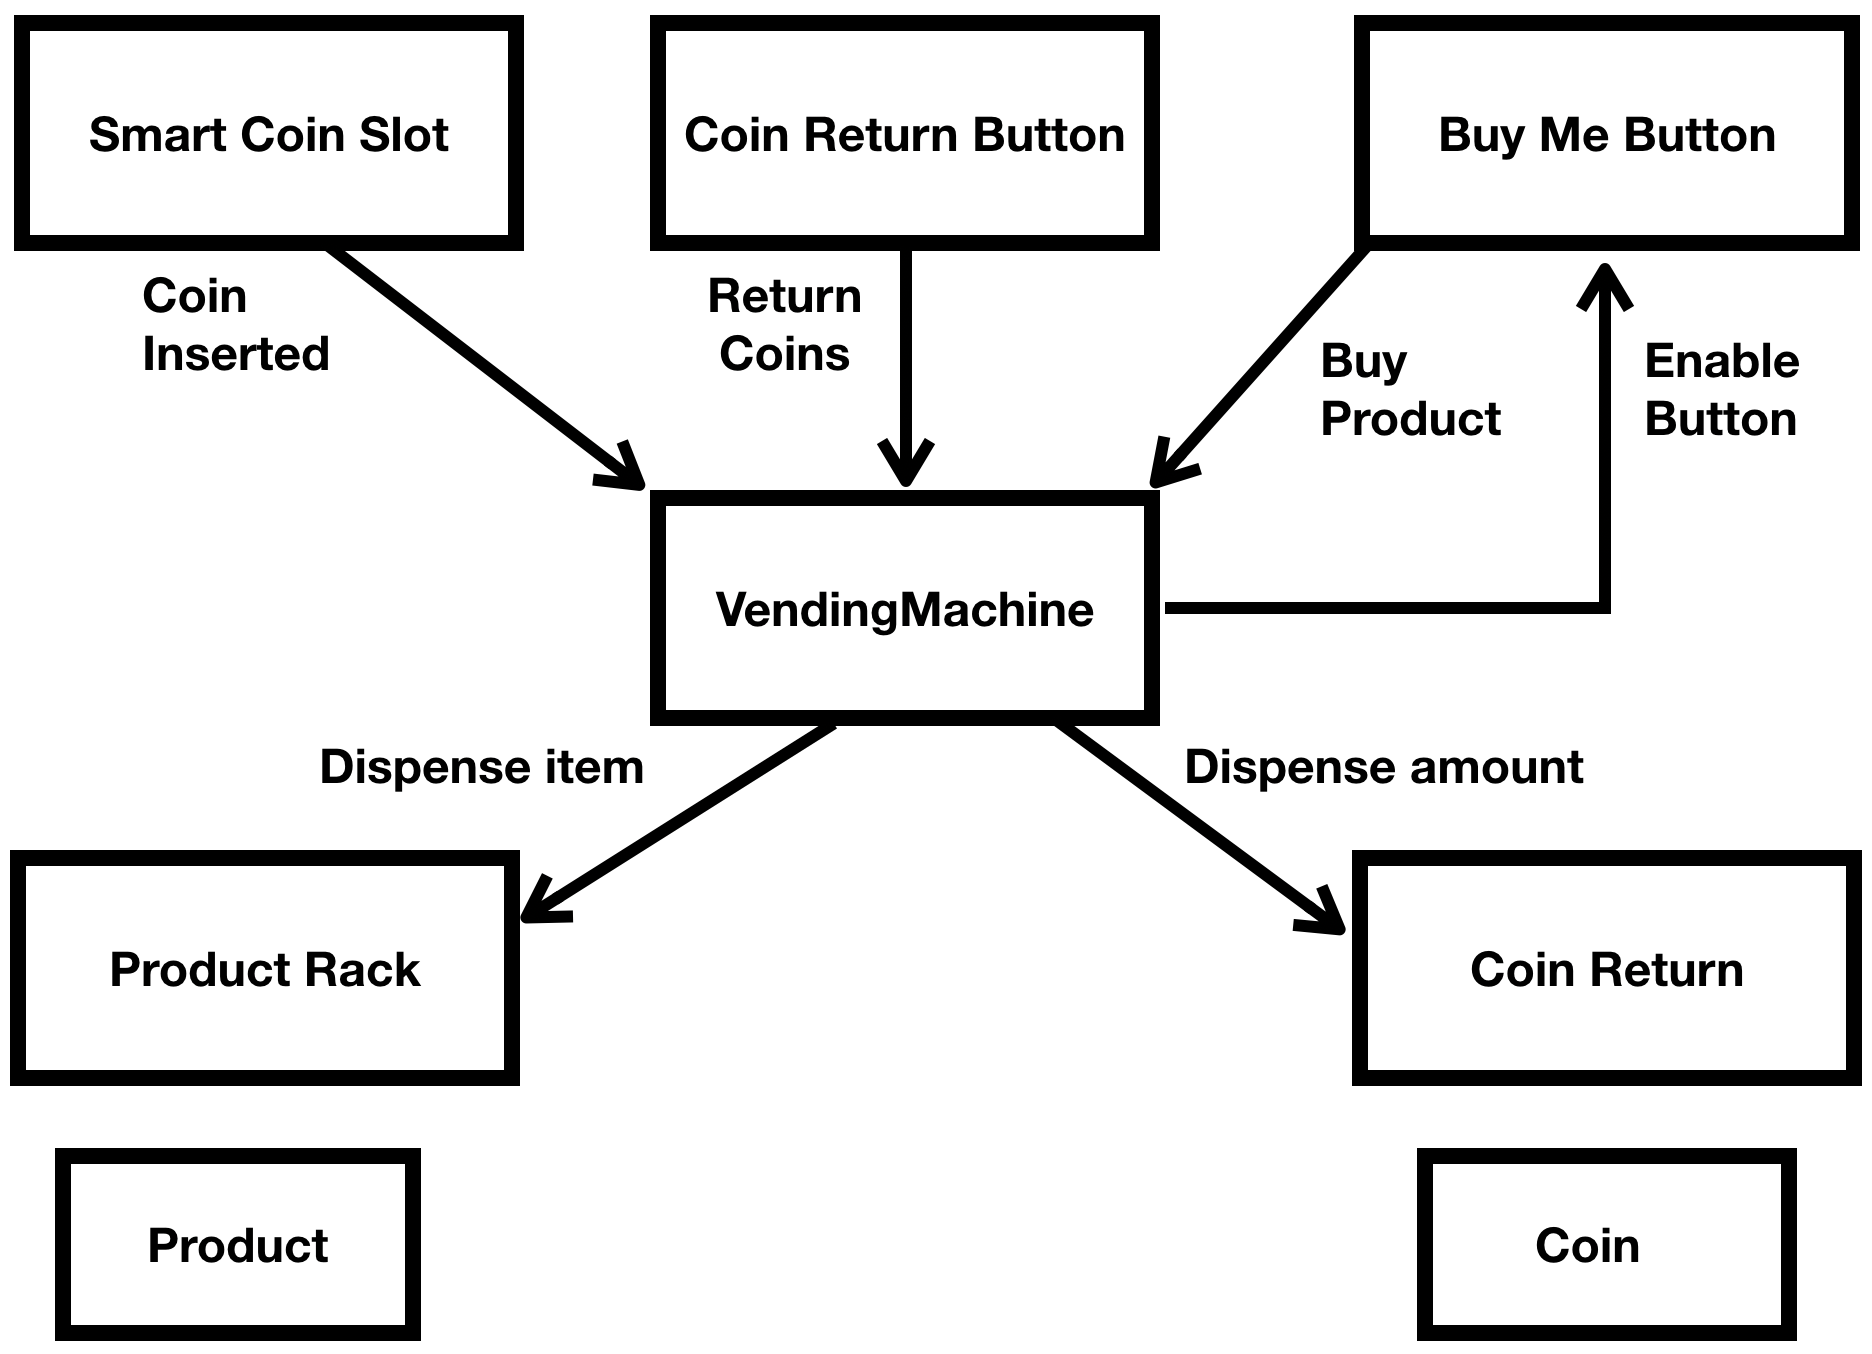
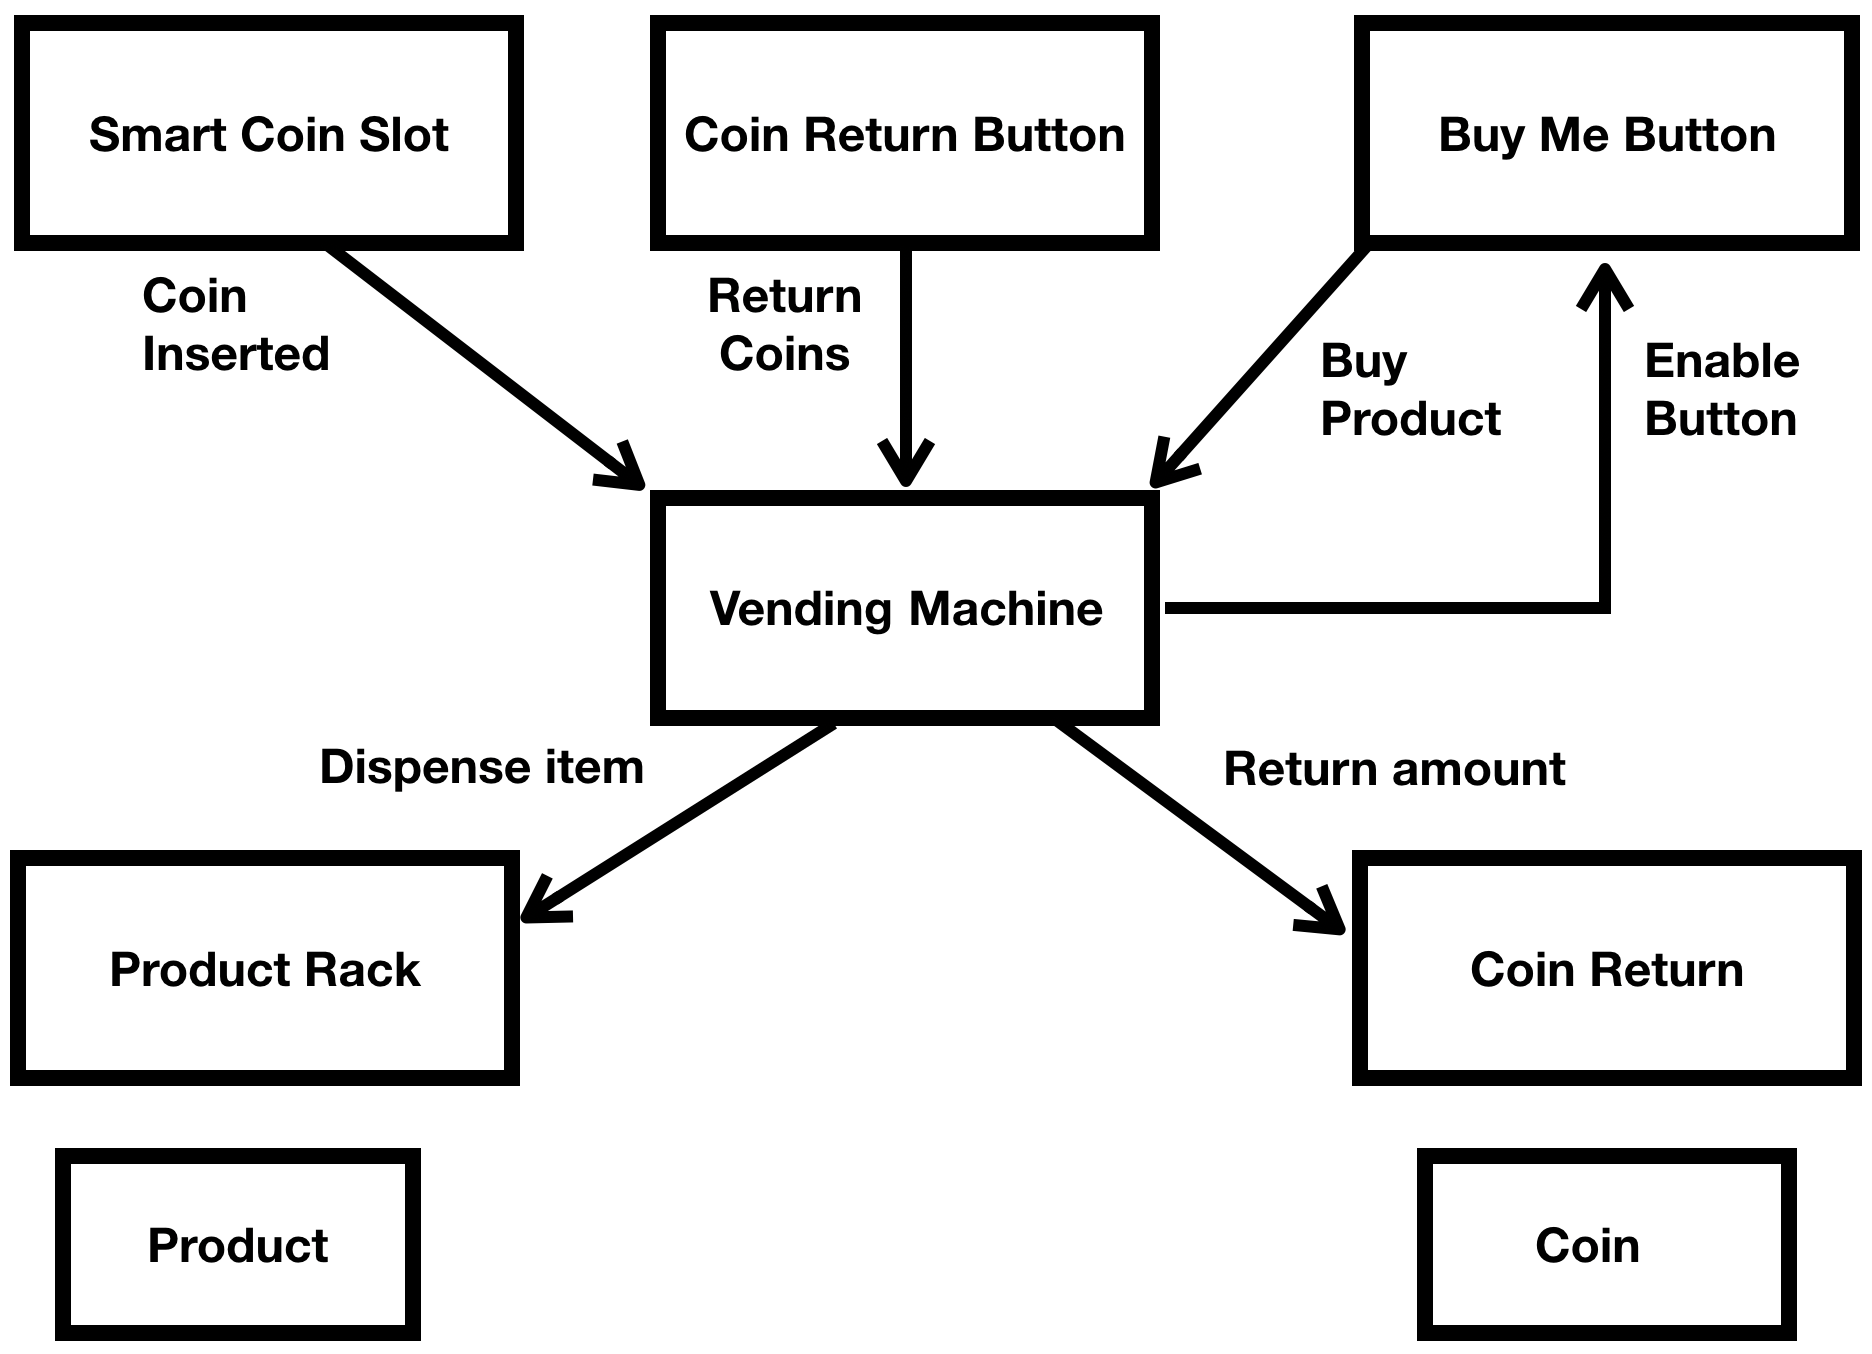
Update the README and image file so they're more accurate.

Changed region(s): [[0.6197, 0.5583, 0.8675, 0.5894], [0.3718, 0.4343, 0.5887, 0.4653]]

diff --git a/README.md b/README.md
@@ -1,2 +1,45 @@
 # TDD_VendingMachine
-Project for teaching TDD in a hands-on workshop
+Project for teaching Test-Driven Development in a hands-on workshop. Attendees will practice TDD/BDD by developing the business logic for a simple vending machine. The project goals and business requirements are listed below.
+
+##### While working on the code, remember:
+* Work from the outside in, sometimes called top-down, and let the specifications you create from the requirements help drive the design of your lower-level specifications until you get low enough to complete some production code.
+* Specification should be based on business rules. Changing the implementation should not cause them to fail. 
+* Take the opportunity to refactor the production and test code to minimize duplication and keep your code clear and readable.
+
+## Project Goal
+The goal of this project is to create the "brains" for a vending machine. The machine has three types of items for sale; Gum (20 cents) , Granola Bar (80 cents), and Candy Bar ($1.00), and it accepts nickels, dimes, quarters, and dollar coins.
+
+## User Interface Description
+The user interface consists of:
+* a slot for inserting coins
+* a "Buy Me" button for each item type
+* a small LCD panel for displaying messages
+* a "Coin Return" button
+* a cup for returned coins
+* and a slot for the buyer to remove their purchased item(s)
+
+## Other mechanisms
+* a rack for each item type that holds the items for sale, and dispenses one item when instructed to do so
+* a coin dispenser that will dispense the requested amount to the cup for returned coins
+
+While not visible to you or the user, the coin slot has a built-in coin verifier that automatically rejects anything except nickels, dimes, quarters, and dollar coins, so you do not need to worry about invalid (foreign or counterfeit) coins.
+
+The VendingMachine.png file shows possible classes and events in the system.
+
+## Must-Have Requirements:
+* When the user inserts a coin, it should increase the current balance based on the coin's value.
+* When the user presses the "Coin Return" button, it should return the current balance in coins.
+* When the user presses a "Buy Me" button and the current balance is less than the price of the item, it should display the message: "Insufficient funds. Please insert more coins."
+* When the user presses a "Buy Me" button, and current balance is at least equal to the price of an item, and there is at least one of the item type available, the machine should dispense one of the selected item type.
+* When the rack for an item type is not empty, the "Buy Me" button for that type should be lit.
+* As long as the rack for an item type is empty, the button for that item should not be lit.
+* When the user presses a "Buy Me" button that is not lit, the machine should display the message "Item currently unavailable"
+
+## Want-To-Have Requirements:
+* Until the current amount of money available equals the price of an item, that item's "Buy Me" button should not be lit. Once the amount is at least equal to its price, then the item's "Buy Me" button should be lit - as long as the rack for that item is not empty.
+* If an item jams in the rack, send a message to notify the company to correct it, and treat the rack as if it were empty.
+* When the user inserts a coin, the machine should display the current balance so the user knows how much money is available to buy an item.
+* If the user presses a "Buy Me" button and the current balance is less than the price of the item, then display a message indicating how much more money the user needs to insert into the coin slot.
+* If the rack for an item is empty, notify the company.
+
+## Start with defining a CoinDispenser to handle inserting and returning coins...
